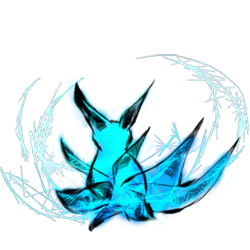
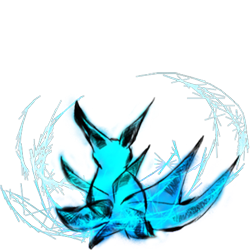
Added pistis death animation

diff --git a/public/scripts/main.js b/public/scripts/main.js
@@ -591,14 +591,14 @@ Monster.prototype.attack = function() {
 				// Cycles through sprite sheet to create "death" animation
 				var tl = new TimelineMax();
 				tl.to("#pet-img", 0, {backgroundPosition: "-250px"});
-				tl.to("#pet-img", 0, {backgroundPosition: "-500px"}, "+=0.5");
-				tl.to("#pet-img", 0, {backgroundPosition: "-750px"}, "+=0.5");
+				tl.to("#pet-img", 0, {backgroundPosition: "-500px"}, "+=0.4");
+				tl.to("#pet-img", 0, {backgroundPosition: "-750px"}, "+=0.4");
 				setTimeout(function() {
 					$(".pet-img").css("backgroundImage", "none");
 					setTimeout(function () {
 						monsterEscape();
-					}, 300);
-				}, 1500);
+					}, 200);
+				}, 1200);
 			}
 			else {
 				$(".pet-health").find(".health-nums").append("<p>" + playerPet.currentHealth + "/" + playerPet.maxHealth + "</p>");

diff --git a/public/world.js b/public/world.js
@@ -41,7 +41,7 @@ var Pistis = function(name, level, currentHealth, maxHealth, strength, speed) {
 	this.strength = strength || 100;
 	this.speed = speed || 200;
 	this.image = "/Images/pets/pet.png";
-	this.imageBack = "/Images/pets/pistis.png";
+	this.imageBack = "/Images/pets/pistis-sprites.png";
 }
 Pistis.prototype = new Blessing();
 Pistis.prototype.constructor = Pistis;
